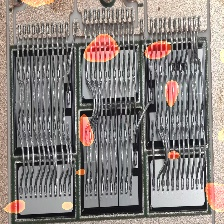
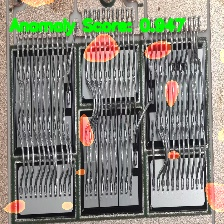
更改测试代码

Changed region(s): [[0.0312, 0.0625, 0.8438, 0.1875]]

diff --git a/tools/utils.py b/tools/utils.py
@@ -1,0 +1,95 @@
+import pandas as pd
+import os
+import torch.backends.cudnn as cudnn
+from torch.utils.tensorboard import SummaryWriter
+import random
+import torch
+import numpy as np
+import logging
+
+def write2csv(results:dict, total_classes, cur_class,  csv_path):
+    keys = list(results.keys())
+
+    if not os.path.exists(csv_path):
+        df_all = None
+        for class_name in total_classes:
+            r = dict()
+            for k in keys:
+                r[k] = 0.00
+            df_temp = pd.DataFrame(r, index=[f'{class_name}'])
+
+            if df_all is None:
+                df_all = df_temp
+            else:
+                df_all = pd.concat([df_all, df_temp], axis=0)
+
+        df_all.to_csv(csv_path, header=True, float_format='%.2f')
+
+    df = pd.read_csv(csv_path, index_col=0)
+
+    for k in keys:
+        df.loc[f'{cur_class}', k] = results[k]
+
+    df.to_csv(csv_path, header=True, float_format='%.2f')
+
+
+def setup_seed(seed):
+    torch.manual_seed(seed)
+    torch.cuda.manual_seed(seed)
+    torch.cuda.manual_seed_all(seed)
+    np.random.seed(seed)
+    random.seed(seed)
+    torch.backends.cudnn.deterministic = True
+    torch.backends.cudnn.benchmark = False
+
+
+class Logger(object):
+    def __init__(self, txt_path):
+        root_logger = logging.getLogger()
+        for handler in root_logger.handlers[:]:
+            root_logger.removeHandler(handler)
+        root_logger.setLevel(logging.WARNING)
+        self.txt_path = txt_path
+        self.logger = logging.getLogger('train')
+        self.formatter = logging.Formatter('%(asctime)s.%(msecs)03d - %(levelname)s: %(message)s', datefmt='%y-%m-%d %H:%M:%S')
+        self.logger.setLevel(logging.INFO)
+
+    def __console(self, level, message):
+        root_logger = logging.getLogger()
+        for handler in root_logger.handlers[:]:
+            root_logger.removeHandler(handler)
+
+        file_handler = logging.FileHandler(self.txt_path, mode='a')
+        console_handler = logging.StreamHandler()
+
+        file_handler.setFormatter(self.formatter)
+        console_handler.setFormatter(self.formatter)
+
+        self.logger.addHandler(file_handler)
+        self.logger.addHandler(console_handler)
+
+        if level == 'info':
+            self.logger.info(message)
+        elif level == 'debug':
+            self.logger.debug(message)
+        elif level == 'warning':
+            self.logger.warning(message)
+        elif level == 'error':
+            self.logger.error(message)
+
+        self.logger.removeHandler(file_handler)
+        self.logger.removeHandler(console_handler)
+
+        file_handler.close()
+
+    def debug(self, message):
+        self.__console('debug', message)
+
+    def info(self, message):
+        self.__console('info', message)
+
+    def warning(self, message):
+        self.__console('warning', message)
+
+    def error(self, message):
+        self.__console('error', message)

diff --git a/test_bondsam.py b/test_bondsam.py
@@ -10,6 +10,8 @@ import os
 import torch
 from scipy.ndimage import gaussian_filter
 import cv2
+import pandas as pd
+import os
 
 from tools import write2csv, setup_seed, Logger
 from dataset import get_data, dataset_dict
@@ -153,6 +155,10 @@ def test_bondsam(args):
             vis_map = ori_image.copy()
             vis_map = cv2.addWeighted(vis_map, 1.0, heat_map_masked, 0.7, 0)
             
+            # 在图像上添加异常分数文本
+            score_text = f"Anomaly Score: {anomaly_score:.3f}"
+            cv2.putText(vis_map, score_text, (10, 30), cv2.FONT_HERSHEY_SIMPLEX, 0.5, (0, 255, 0), 2, cv2.LINE_AA)
+            
             save_path = os.path.join(args.save_path, args.save_name)
             print(f"Anomaly detected! Results saved in {save_path}, anomaly score: {anomaly_score:.3f}")
             cv2.imwrite(save_path, vis_map)
@@ -162,8 +168,37 @@ def test_bondsam(args):
         else:
             print(f"No anomaly detected. Anomaly score: {anomaly_score:.3f} (threshold: {anomaly_threshold})")
             
+            # 即使没有检测到异常，也在图像上显示分数
+            vis_map = ori_image.copy()
+            score_text = f"Anomaly Score: {anomaly_score:.3f}"
+            cv2.putText(vis_map, score_text, (10, 30), cv2.FONT_HERSHEY_SIMPLEX, 1, (0, 255, 0), 2, cv2.LINE_AA)
+            
             save_path = os.path.join(args.save_path, args.save_name)
-            cv2.imwrite(save_path, ori_image)
+            cv2.imwrite(save_path, vis_map)
+
+def write2csv(results:dict,total_classes,cur_class,csv_path):
+    keys=list(results.keys())
+
+    if not os.path.exists(csv_path):
+        df_all=None
+        for class_name in total_classes:
+            r=dict()
+            for k in keys:
+                r[k]=0.00
+            df_temp=pd.DataFrame(r,index=[f'{class_name}'])
+
+            if df_all is None:
+                def_all=df_temp
+            else:
+                df_all=pd.concat([df_all,df_temp],axis=0)
+
+        df_all.to_csv(csv_path,header=True,float_format='%.2f')
+    df=pd.read_csv(csv_path,index_col=0)
+
+    for k in keys:
+        df.loc[f'{cur_class}',k]=results[k]
+
+    df.to_csv(csv_path,header=True,float_format='%.2f')
 
 def str2bool(v):
     return v.lower() in ("yes", "true", "t", "1")

diff --git a/tools/__init__.py b/tools/__init__.py
@@ -1,0 +1,1 @@
+from .utils import write2csv, setup_seed, Logger
